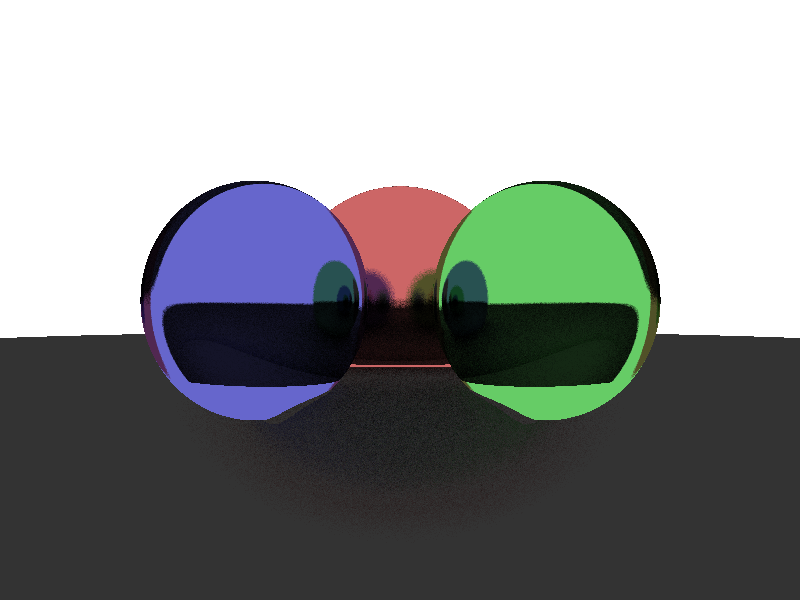
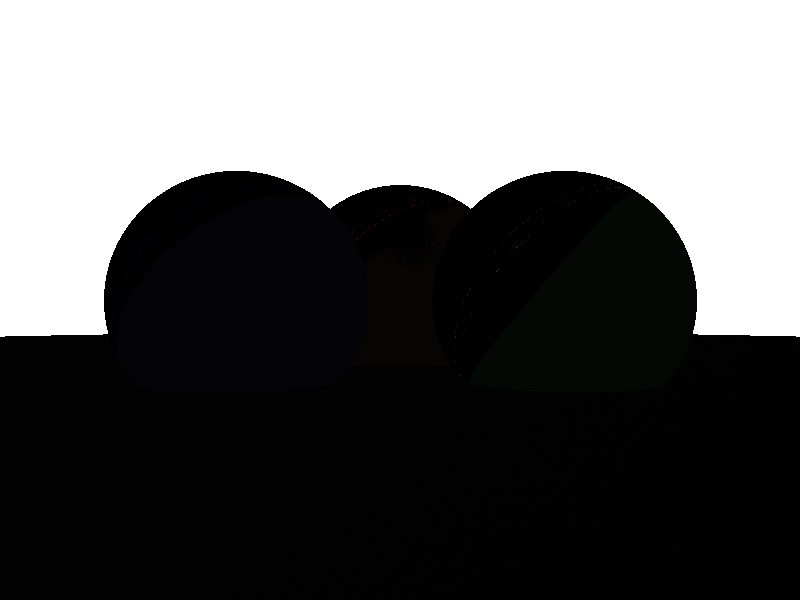
stashed code

diff --git a/nika.h b/nika.h
@@ -152,22 +152,117 @@ typedef struct {
 typedef struct {
     nika_color_t albedo;
     float metallic;
-} NikaMaterial;
+} nika_material_t;
+
+typedef enum {
+    Hit,
+    Miss
+} ray_result_type_t;
+
+typedef struct {
+    ray_result_type_t type;
+
+    v2_t distance;
+
+    v3_t point;
+    v3_t hit_normal;
+} ray_intersect_result_t;
+
+struct nika_object_t;
+
+typedef struct {
+    void* data;
+    nika_material_t* material;
+    ray_intersect_result_t (*intersect_callback)(v3_t, v3_t, void*);
+} nika_object_t;
 
 typedef struct {
     v3_t origin;
     float radius;
-    NikaMaterial* material;
-} NikaSphere;
+} nika_sphere_data_t;
+
+typedef struct {
+    ray_result_type_t type;
+
+    v2_t point;
+    nika_object_t* object;
+} ray_hit_result_t;
+
+typedef union {
+    ray_result_type_t type;
+
+    ray_hit_result_t hit;
+} ray_result_t;
+
+typedef struct {
+    v3_t origin;
+} nika_camera_t;
+
+void nika_swap_f(float *a, float *b) {
+    float temp = *a;
+    *a = *b;
+    *b = temp;
+}
+
+ray_intersect_result_t nika_sphere_intersect(v3_t ro, v3_t rd, void* object) {
+    nika_sphere_data_t* data = (nika_sphere_data_t*) ((nika_object_t*) object)->data; 
+
+    v3_t oc = nika_sub_v3(ro, data->origin);
+    
+    float a = nika_dot_v3(rd, rd);
+    float b = 2.0f * nika_dot_v3(rd, oc);
+    float c = nika_dot_v3(oc, oc) - data->radius*data->radius;
+    float d = b*b - 4*a*c;
+
+    if(d >= 0.0f) {
+        float root = sqrt(d);
+
+        float d0 = (-b + root) / (2.0f * a);
+        float d1 = (-b - root) / (2.0f * a);
+
+        if(d0 > d1) nika_swap_f(&d0, &d1);
+
+        if(d0 < 0.0f && d1 < 0.0f)
+            return (ray_intersect_result_t){ Miss };
+            
+        v3_t point = nika_sum_v3(ro, nika_mul_v3_scalar(rd, d0));
+        v3_t normal = nika_v3_normalize(nika_sub_v3(point, data->origin));
+
+        return (ray_intersect_result_t) { 
+            Hit, 
+            (v2_t){ d0, d1 },
+            point,
+            normal
+        };
+    }
+
+    return (ray_intersect_result_t){ Miss };
+}
+
+nika_object_t nika_sphere(v3_t origin, float radius, nika_material_t* material) {
+    nika_sphere_data_t* data = (nika_sphere_data_t*) malloc(sizeof(nika_sphere_data_t));
+    data->origin = origin;
+    data->radius = radius;
+
+    return (nika_object_t) {
+        data,
+        material,
+        nika_sphere_intersect
+    };
+}
+
+void nika_free_object(nika_object_t* object) {
+    free(object->data);
+    free(object);
+}
 
 typedef struct {
     nika_color_t* data;
     unsigned int width;
     unsigned int height;
-} NikaCanvas;
+} nika_canvas_t;
 
-
-void nika_clear_canvas(NikaCanvas* canvas) {
+void nika_clear_canvas(nika_canvas_t* canvas) {
     const unsigned int width = canvas->width;
     const unsigned int height = canvas->height;
     
@@ -178,80 +273,31 @@ void nika_clear_canvas(NikaCanvas* canvas) {
     }
 }
 
-typedef enum {
-    Hit,
-    Miss
-} ray_result_type_t;
-
-typedef struct {
-    ray_result_type_t type;
-    v2_t point;
-    NikaSphere sphere;
-} ray_hit_result_t;
-
-typedef union {
-    ray_result_type_t type;
-    ray_hit_result_t hit;
-} ray_result_t;
-
-typedef struct {
-    v3_t origin;
-} NikaCamera;
-
-v2_t sphere_intersect(v3_t ro, v3_t rd, v3_t ce, float ra) {
-    const v3_t oc = nika_sub_v3(ro, ce);
-    float b = nika_dot_v3(oc, rd);
-
-    v3_t qc = (v3_t) {
-        oc.x - b*rd.x,
-        oc.y - b*rd.y,
-        oc.z - b*rd.z
-    };
-
-    float h = ra*ra - nika_dot_v3(qc, qc);
-    
-    if(h < 0.0) return (v2_t){ -1.0, -1.0 }; // no intersection
-    
-    h = NIKA_SQRT(h);
-    
-    return (v2_t){ -b-h, -b + h };
-
-}
-
-ray_result_t nika_trace_ray(ray_t ray, NikaSphere* objects, unsigned int count) {
-    float depth = FLT_MAX;
-
+ray_result_t nika_trace_ray(ray_t ray, nika_object_t* objects, unsigned int count) {
     ray_result_t result;
     result.type = Miss;
+    result.hit.point.x = FLT_MAX;
 
-    for(unsigned int i = 0; i < count; ++i) {
-        NikaSphere sphere = objects[i]; 
-        const v2_t t = sphere_intersect(ray.origin, ray.dir, sphere.origin, sphere.radius); 
+    for (unsigned int i = 0; i < count; ++i) {
+        nika_object_t* object = &objects[i]; 
 
-        if (t.y < 0.0) { 
-            continue;
-           //  return (nika_color_t){ 0.0f, 0.0f, 0.0f, 0.0f }; 
-        } else if (t.x < 0.0) {
-            continue;
-            // return (nika_color_t){ 0.0f, 1.0f, 0.0f, 0.0f }; 
-        }
+        ray_intersect_result_t res = (*object->intersect_callback)(ray.origin, ray.dir, object);
 
-        if (t.x > depth)
+        if (res.type == Miss)
             continue;
 
-        result.hit = (ray_hit_result_t) {
-            .type = Hit,
-            .point = t,
-            .sphere = sphere
-        };
+        if (res.distance.x > result.hit.point.x)
+            continue;
 
-        depth = t.x;
+        result.type = Hit;
+        result.hit.point = res.distance;
+        result.hit.object = object;
     }
 
     return result;
 }
 
-nika_color_t nika_per_pixel(NikaCamera camera, float x, float y, float width, float height, NikaSphere* objects, unsigned int count) {
+nika_color_t nika_per_pixel(nika_camera_t camera, float x, float y, float width, float height, nika_object_t* objects, unsigned int count) {
     const float aspect_ratio = width / height;
 
     v3_t ray_dir = (v3_t) {
@@ -276,13 +322,13 @@ nika_color_t nika_per_pixel(NikaCamera camera, float x, float y, float width, fl
             break;
         }
 
-        NikaMaterial* material = result.hit.sphere.material;
+        nika_material_t* material = result.hit.object->material;
 
         contribution = nika_mul_v3(contribution, nika_v3_from_color(material->albedo));
 
         float distance = result.hit.point.x;
         v3_t hit_point = nika_sum_v3(ray_orig, nika_mul_v3_scalar(ray_dir, distance));
-        v3_t normal = nika_v3_normalize(nika_sub_v3(hit_point, result.hit.sphere.origin)); 
+        v3_t normal = (v3_t) { 1.0f,  1.0f,  1.0f }; // nika_v3_normalize(nika_sub_v3(hit_point, result.hit.object.origin)); 
 
         ray_orig = nika_sum_v3(hit_point, nika_mul_v3_scalar(normal, 0.001f)); 
 
@@ -294,11 +340,13 @@ nika_color_t nika_per_pixel(NikaCamera camera, float x, float y, float width, fl
     return (nika_color_t){ light.x, light.y, light.z, 1.0f };
 }
 
-void nika_render_scene(NikaCanvas* canvas, NikaCamera camera, NikaSphere* objects, unsigned int count) {
+#define ITERATIONS 2
+
+void nika_render_scene(nika_canvas_t* canvas, nika_camera_t camera, nika_object_t* objects, unsigned int count) {
     const unsigned int width = canvas->width;
     const unsigned int height = canvas->height;
-    
-    for(int i = 0; i < 10; ++i) {
+
+    for(int i = 0; i < ITERATIONS; ++i) {
         for(int x = 0; x < width; ++x) {
             for(int y = 0; y < height; ++y) {
                 nika_color_t color = nika_per_pixel(camera, x, y, width, height, objects, count);
@@ -313,10 +361,10 @@ void nika_render_scene(NikaCanvas* canvas, NikaCamera camera, NikaSphere* object
 
     for(int x = 0; x < width; ++x) {
         for(int y = 0; y < height; ++y) {
-            canvas->data[x + width * y].r /= 10.0f;
-            canvas->data[x + width * y].g /= 10.0f;
-            canvas->data[x + width * y].b /= 10.0f;
-            canvas->data[x + width * y].a /= 10.0f;
+            canvas->data[x + width * y].r /= (float) ITERATIONS;
+            canvas->data[x + width * y].g /= (float) ITERATIONS;
+            canvas->data[x + width * y].b /= (float) ITERATIONS;
+            canvas->data[x + width * y].a /= (float) ITERATIONS;
         }
     }
 };

diff --git a/example0.c b/example0.c
@@ -6,40 +6,40 @@
 #include "nika.h"
 
 int main() {
-    NikaCanvas canvas = (NikaCanvas) {
+    nika_canvas_t canvas = (nika_canvas_t) {
         .data = (nika_color_t*) malloc(sizeof(nika_color_t) * 800 * 600),
         .width = 800,
         .height = 600
     };
 
-    NikaMaterial red = (NikaMaterial) {
+    nika_material_t red = (nika_material_t) {
         .albedo = (nika_color_t){ 0.8f, 0.4f, 0.4f, 1.0f },
         .metallic = 0.1f
     };
 
-    NikaMaterial green = (NikaMaterial) {
+    nika_material_t green = (nika_material_t) {
         .albedo = (nika_color_t){ 0.4f, 0.8f, 0.4f, 1.0f },
         .metallic = 0.02f
     };
     
-    NikaMaterial blue = (NikaMaterial) {
+    nika_material_t blue = (nika_material_t) {
         .albedo = (nika_color_t){ 0.4f, 0.4f, 0.8f, 1.0f },
         .metallic = 0.02f
     };
 
-    NikaMaterial floor = (NikaMaterial) {
+    nika_material_t floor = (nika_material_t) {
         .albedo = (nika_color_t){ 0.2f, 0.2f, 0.2f, 1.0f },
         .metallic = 0.99f
     };
 
-    NikaSphere objects[] = {
-        (NikaSphere){ (v3_t){ 0.0f, 0.0f, -7.0f }, 1.0f, &red},
-        (NikaSphere){ (v3_t){ 1.0f, 0.0f, -5.0f }, 0.8f, &green},
-        (NikaSphere){ (v3_t){ -1.0f, 0.0f, -5.0f }, 0.8f, &blue},
-        (NikaSphere){ (v3_t){ 0.0f, 400.5f, -5.0f }, 400.0f, &floor},
-    }; 
+    nika_object_t objects[] = {
+        nika_sphere((v3_t){ 0.0f, 0.0f, -7.0f }, 1.0f, &red),
+        nika_sphere((v3_t){ 1.0f, 0.0f, -5.0f }, 0.8f, &green),
+        nika_sphere((v3_t){ -1.0f, 0.0f, -5.0f }, 0.8f, &blue),
+        nika_sphere((v3_t){ 0.0f, 400.5f, -5.0f }, 400.0f, &floor)
+    };
 
-    NikaCamera camera = (NikaCamera) {
+    nika_camera_t camera = (nika_camera_t) {
         .origin = (v3_t){ 0.0f, 0.0f, 0.0f }
     };
 

diff --git a/sdl/main.c b/sdl/main.c
@@ -31,28 +31,28 @@ int main(int argc, char *argv[]) {
     SDL_Renderer* renderer = SDL_CreateRenderer(window, 0, SDL_RENDERER_SOFTWARE);
     SDL_Texture *t = SDL_CreateTexture(renderer, SDL_PIXELFORMAT_ARGB8888, SDL_TEXTUREACCESS_STREAMING, 800, 600);
 
-    NikaCanvas canvas = (NikaCanvas) {
+    nika_canvas_t canvas = (nika_canvas_t) {
         .data = (nika_color_t*) malloc(sizeof(nika_color_t) * 800 * 600),
         .width = 800,
         .height = 600
     };
 
-    NikaMaterial red = (NikaMaterial) {
+    nika_material_t red = (nika_material_t) {
         .albedo = (nika_color_t){ 0.8f, 0.4f, 0.4f, 1.0f },
         .metallic = 0.1f
     };
 
-    NikaMaterial green = (NikaMaterial) {
+    nika_material_t green = (nika_material_t) {
         .albedo = (nika_color_t){ 0.4f, 0.8f, 0.4f, 1.0f },
         .metallic = 0.02f
     };
     
-    NikaMaterial blue = (NikaMaterial) {
+    nika_material_t blue = (nika_material_t) {
         .albedo = (nika_color_t){ 0.4f, 0.4f, 0.8f, 1.0f },
         .metallic = 0.02f
     };
 
-    NikaMaterial floor = (NikaMaterial) {
+    nika_material_t floor = (nika_material_t) {
         .albedo = (nika_color_t){ 0.2f, 0.2f, 0.2f, 1.0f },
         .metallic = 0.99f
     };
@@ -64,7 +64,7 @@ int main(int argc, char *argv[]) {
         (NikaSphere){ (v3_t){ 0.0f, 400.5f, -5.0f }, 400.0f, &floor},
     }; 
 
-    NikaCamera camera = (NikaCamera) {
+    nika_camera_t camera = (nika_camera_t) {
         .origin = (v3_t){ 0.0f, 0.0f, 0.0f }
     };
 
